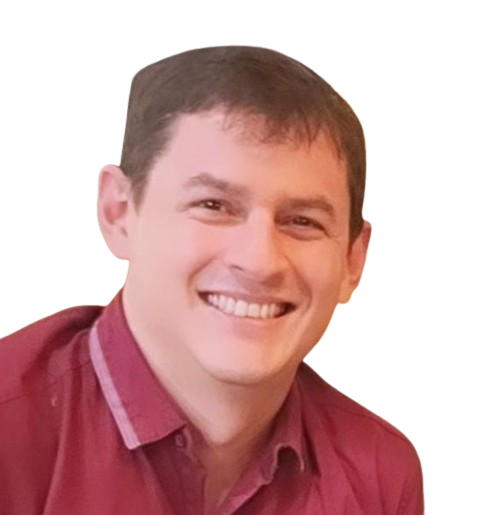
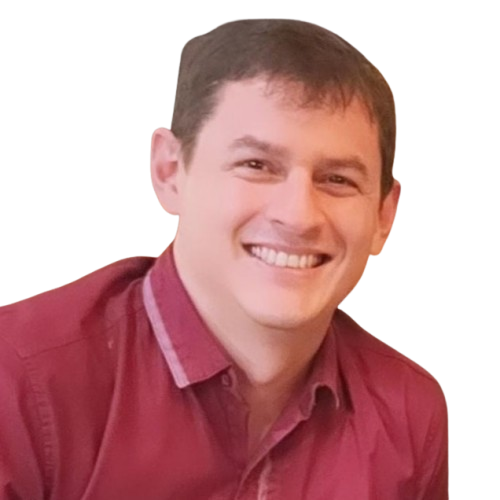
se actualiza foto de perfil

diff --git a/index.html b/index.html
@@ -100,7 +100,7 @@
                                     71.6C-24.3,72.5,-48.6,57.3,-62.7,34.5C-76.8,11.8,-80.7,-18.5,-68.5,-39.2C-56.4,
                                     -59.9,-28.2,-71.1,-4.4,-68.5C19.3,-65.9,38.6,-49.7,49.2,-29.9Z" transform="translate(100 100)"/>
 
-                                    <image class="home__blob-img" x="28" y="45" xlink:href="assets/img/profile-picture.png"/>
+                                    <image class="home__blob-img" x="20" y="45" xlink:href="assets/img/profile-picture.png"/>
                                 </g>
                             </svg>
                         </div>
